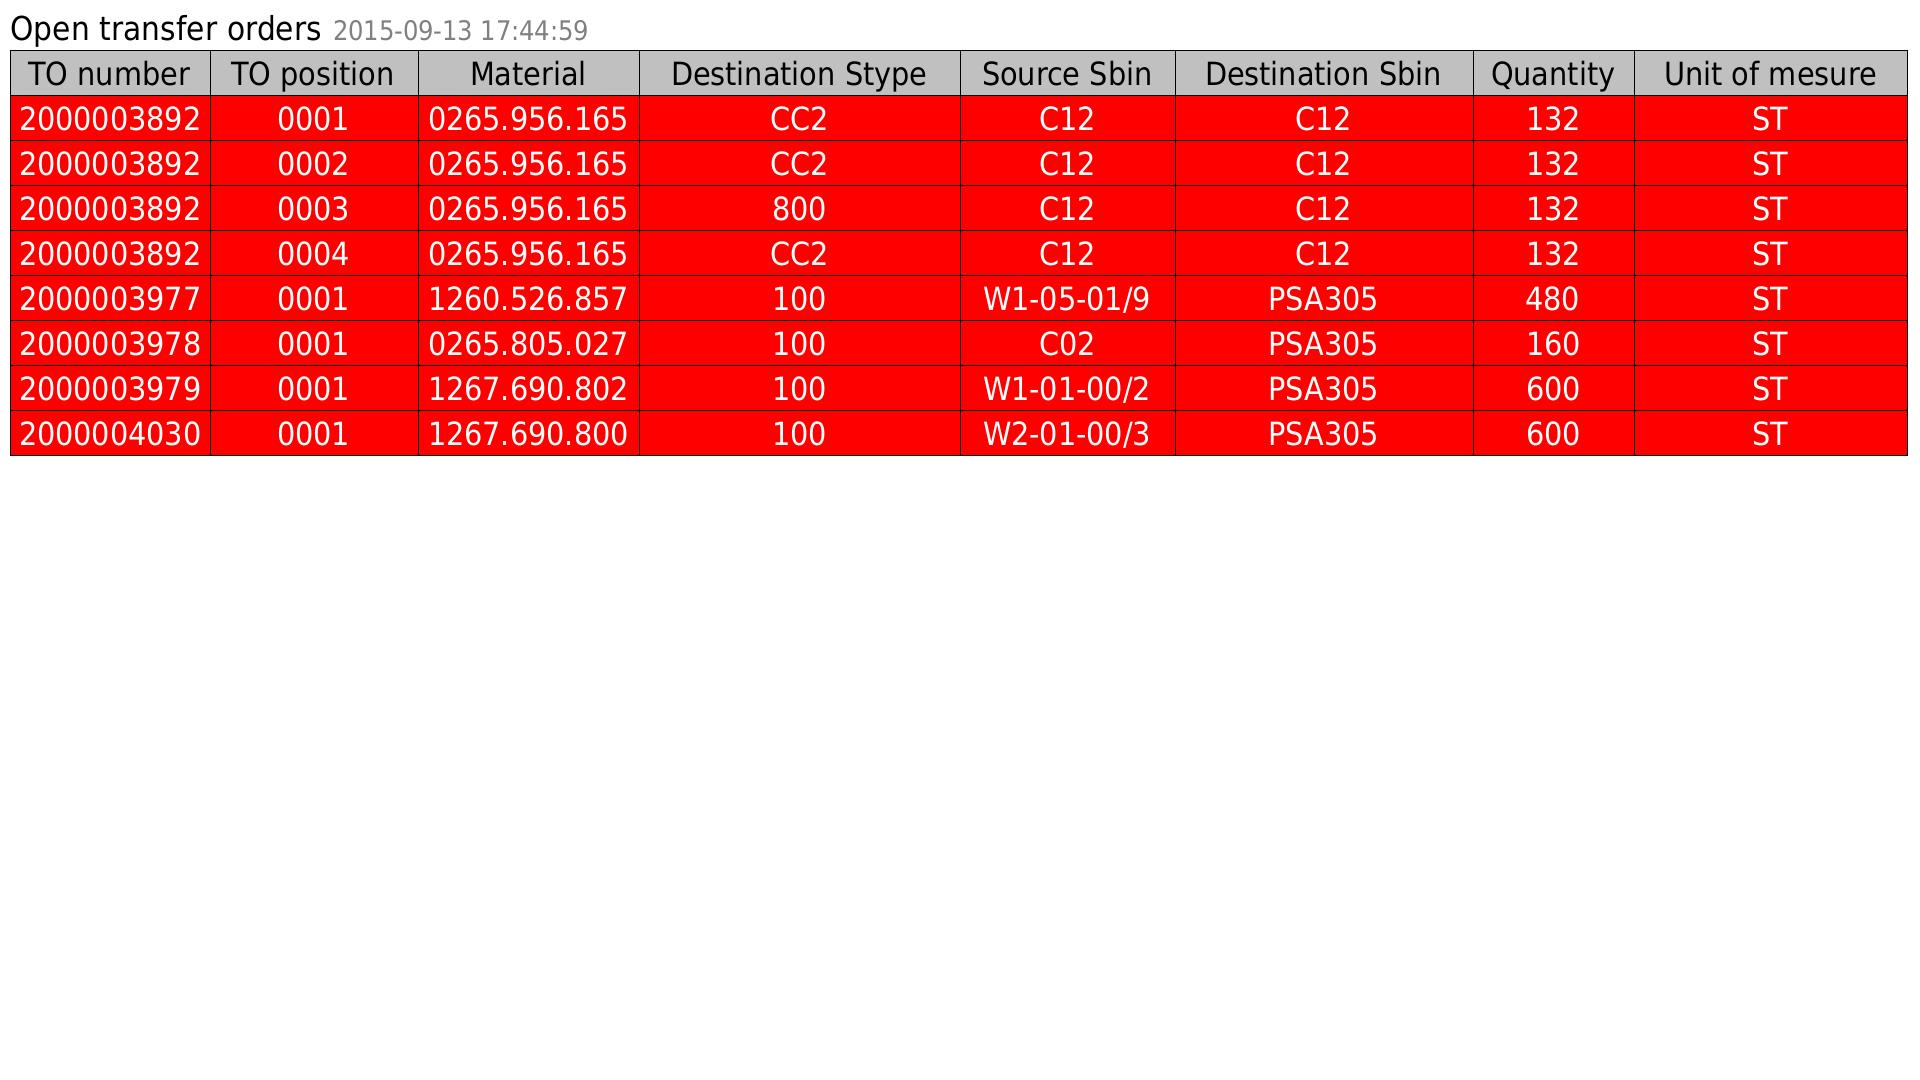
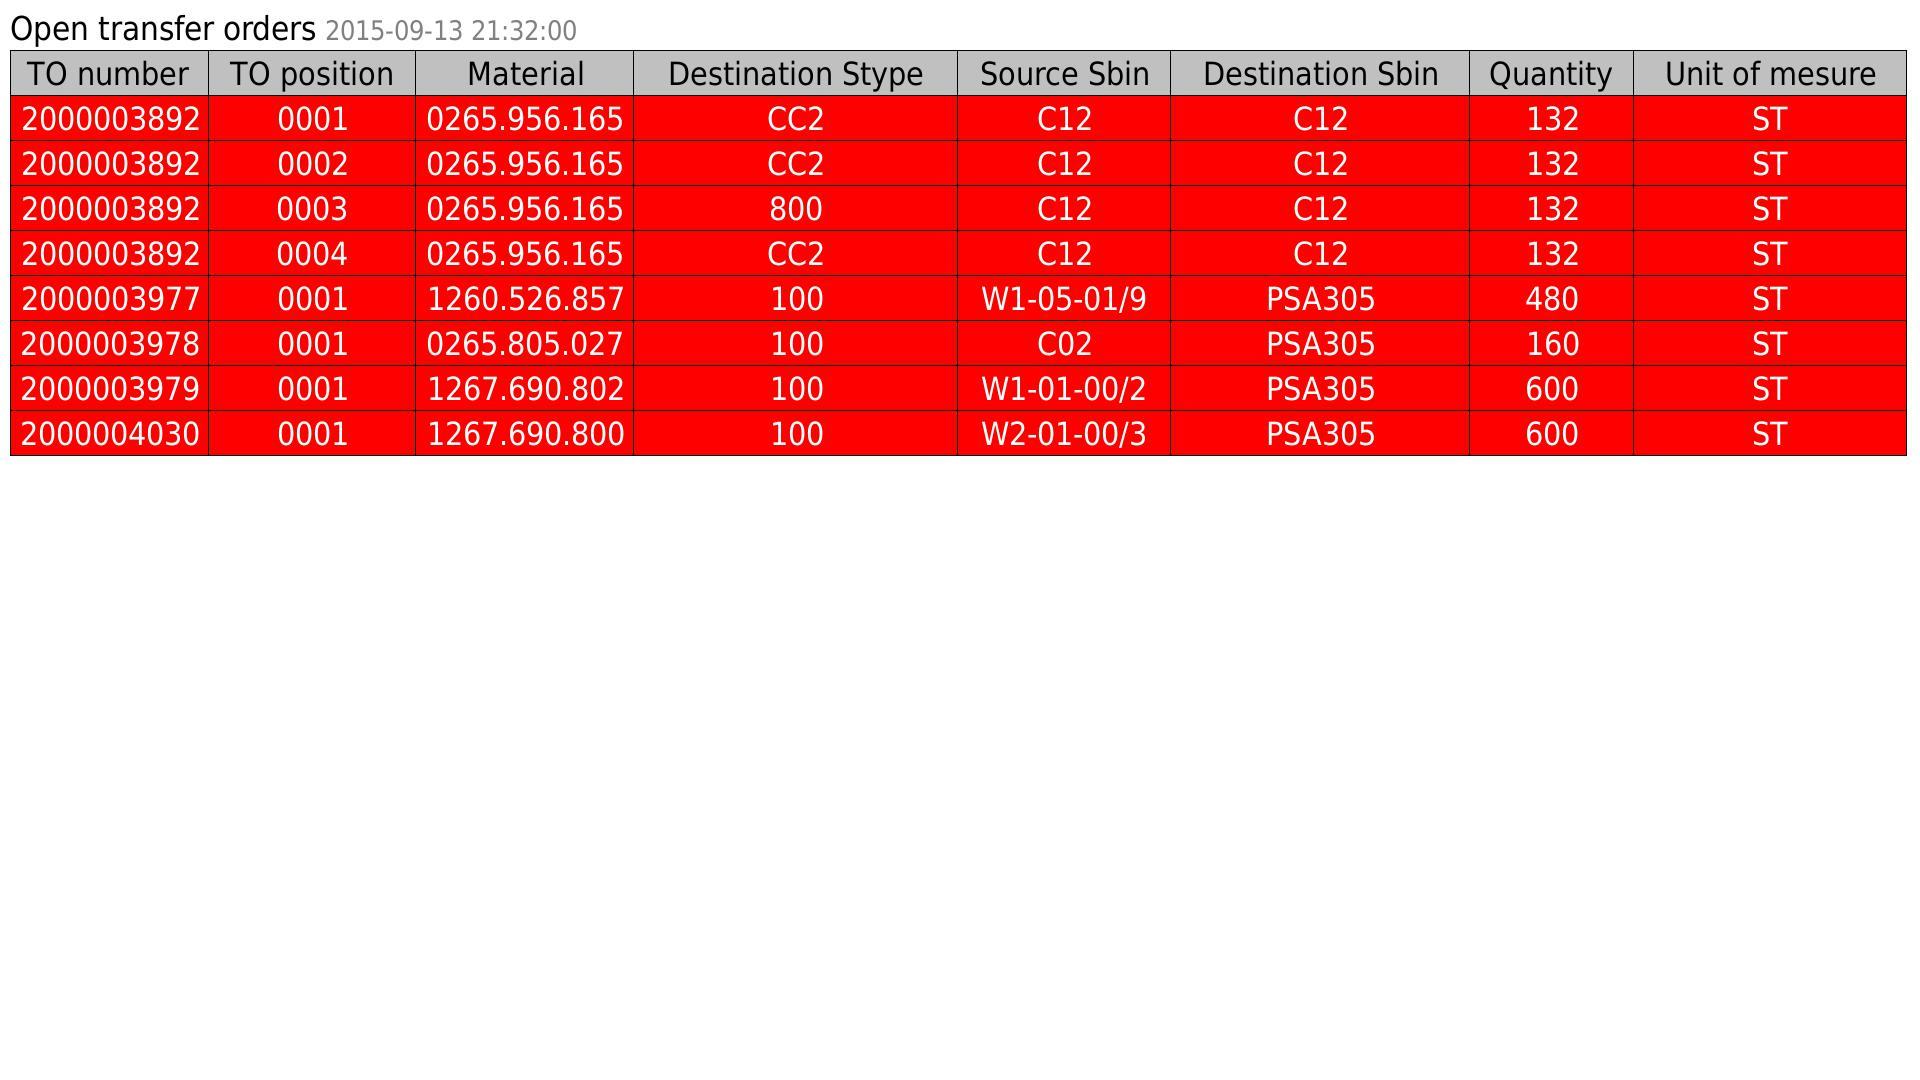
test on win

diff --git a/html/RLLT2300_05F0.TXT.html b/html/RLLT2300_05F0.TXT.html
@@ -77,7 +77,7 @@ This styles for the internal rules: no libs, no requires
     }
 </style>    <body>
         <div class="container-fluid">
-            <h2>Open transfer orders <small>2015-09-13 17:44:59</small></h2><table class="table table-bordered table-hover table-striped">
+            <h2>Open transfer orders <small>2015-09-13 21:32:00</small></h2><table class="table table-bordered table-hover table-striped">
     <thead>
         <tr>
         <th>TO number</th><th>TO position</th><th>Material</th><th>Destination Stype</th><th>Source Sbin</th><th>Destination Sbin</th><th>Quantity</th><th>Unit of mesure</th>        </tr>

diff --git a/php/init.php b/php/init.php
@@ -12,6 +12,8 @@ require 'RLLTImage.php';
 
 function init($argv = array()){
 
+print_r($argv);
+
     $parser = new RLLT2300Parser();
     
     $settings = parse_ini_file('settings.ini', true);
